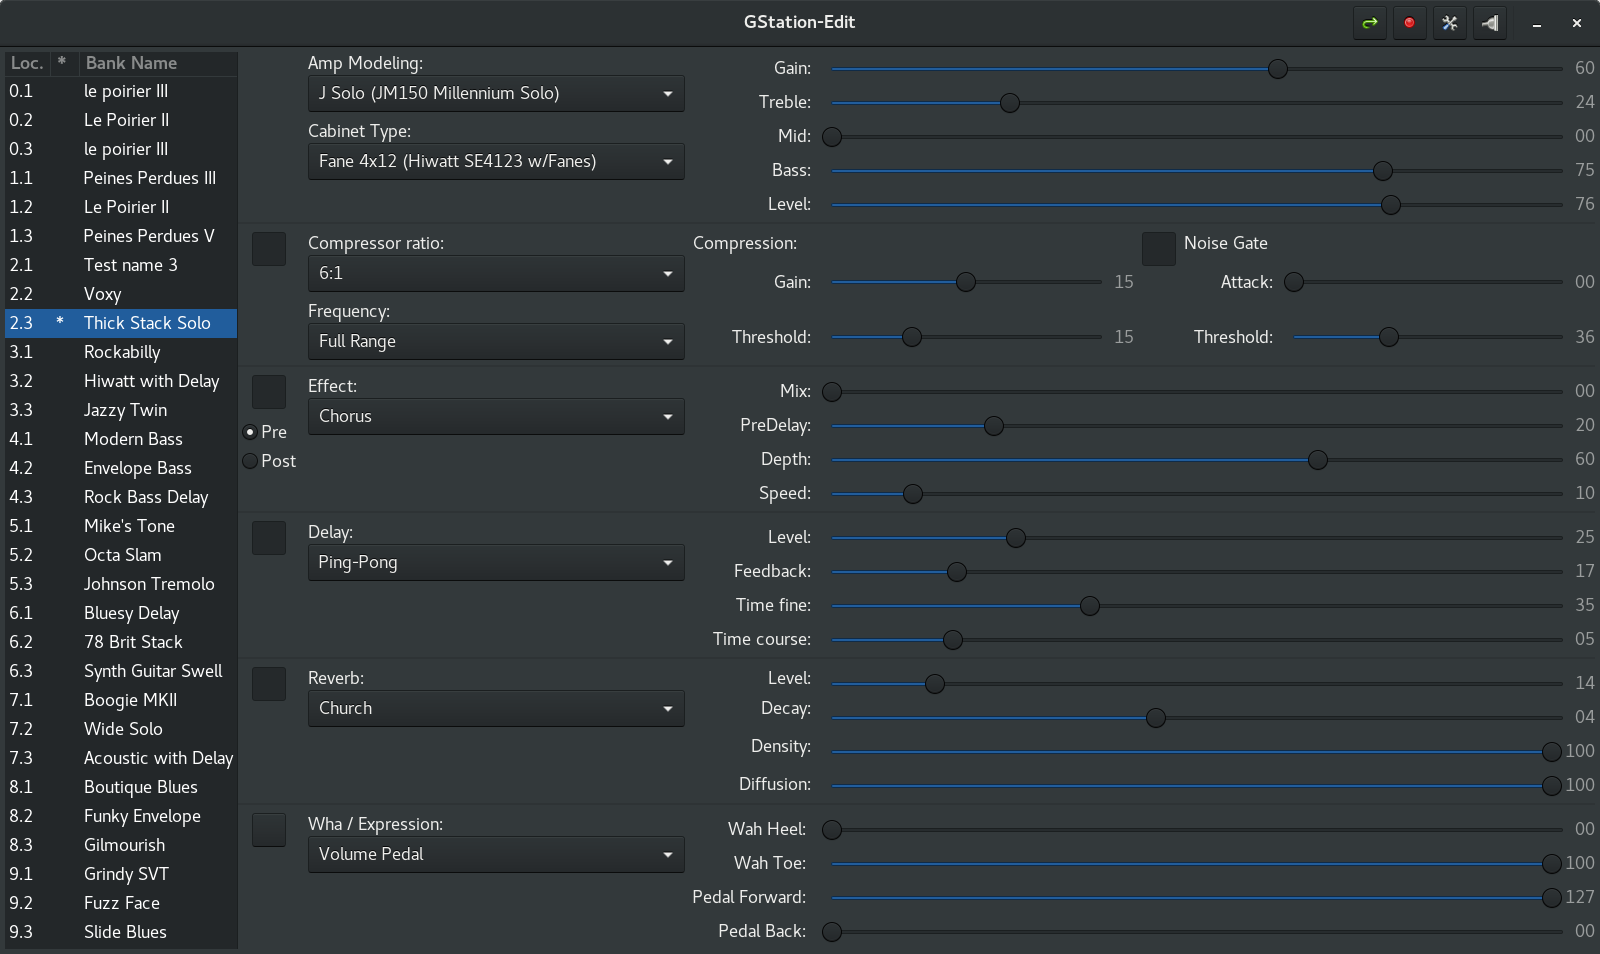
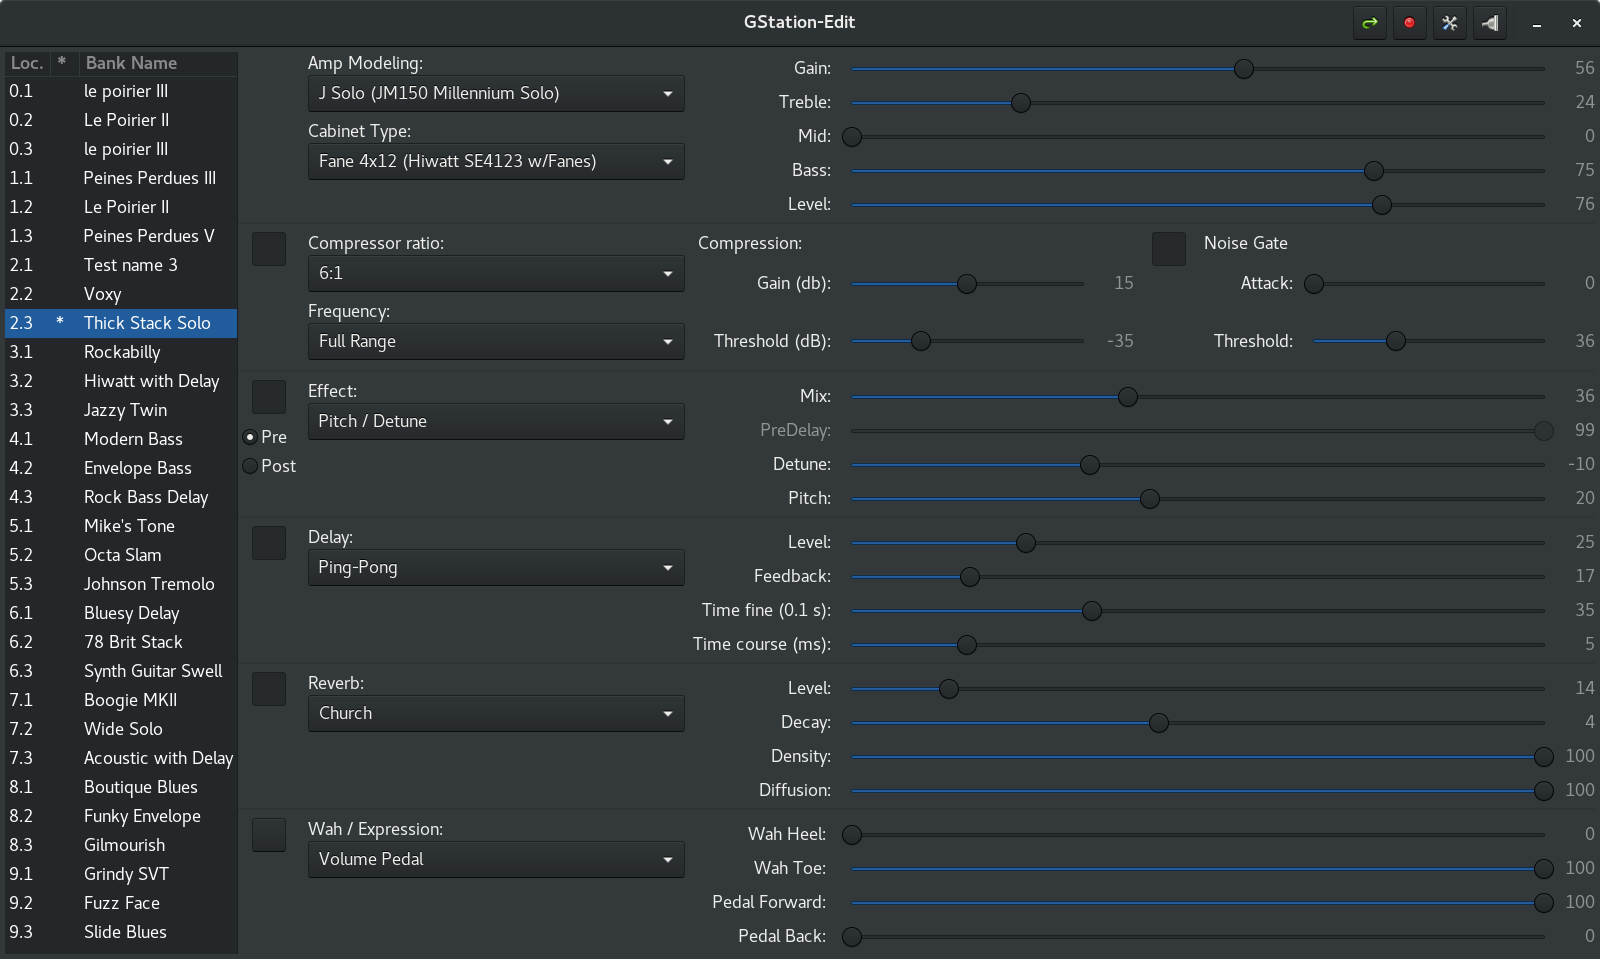
Update communication related files (#3)

diff --git a/README.md b/README.md
@@ -22,15 +22,12 @@ bass amp modeling and effect processing system.
 - Rename a program.
 - Undo or Store changes from the UI.
 - Update utility settings (digital output level, cabinet emulation, ...).
-- Track changes with a * in the bank list with the same meaning as the LED on
-the Store button on the J-Station.
+- Track changes with a * in the bank list.
 
 
 # Not supported yet
-- The following items in the program list's context menu: export and import
-a program, copy / paste.
-- Scale widgets display raw values. Actual units should be displayed instead
-(such as dB, ms, etc.)
+- The following items in the program list's context menu: export and import,
+copy / paste.
 - Factory banks are selectable from the J-Station, but will not be reflected
 in the UI.
 - Only firmware 2.0 is supported. If someone uses firmware 1.0, please contact

diff --git a/CHANGELOG.md b/CHANGELOG.md
@@ -3,7 +3,9 @@
 ### Version 0.6.0 (in progress)
 #### User
 - Make program names editable in bank list
+- Scales display the human readable value instead of the raw value
 - Scales can now be set to their max value
+- Fixed incorrect ranges for some parameters
 - Effect scales adapt their range depending on the selected effect
 
 #### Development

diff --git a/TODO.md b/TODO.md
@@ -1,7 +1,5 @@
 # TODO
 - The following items in the program list's context menu: export and
 import a program, copy / paste.
-- Scale widgets display raw values. Actual units should be displayed instead
-(such as dB, ms, etc.)
 - Factory banks are selectable from the J-Station, but will not be reflected
 in the UI.
